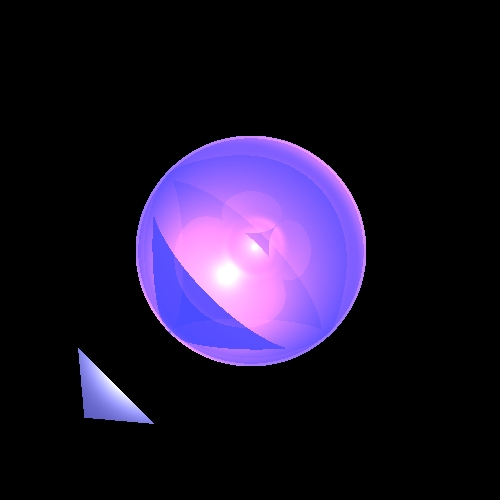
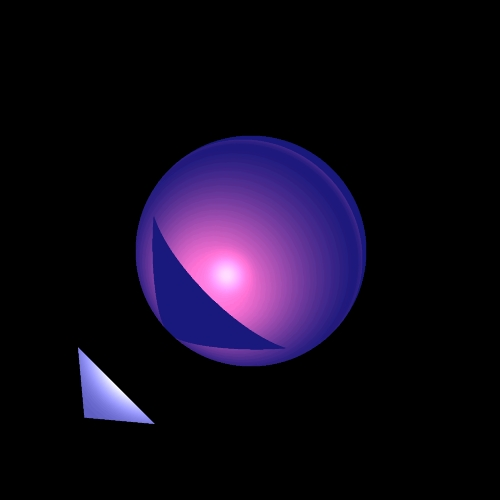
final!!!

Changed region(s): [[0.27, 0.27, 0.75, 0.75]]

diff --git a/src/unitTests/VectorTests.java b/src/unitTests/VectorTests.java
@@ -11,84 +11,58 @@ import static junit.framework.TestCase.fail;
 
 public class VectorTests {
     @Test
-    void add() {
+    public void add() {
         Vector v1=new Vector(new Point3D(1.0,2.0,4));
         Vector v2=new Vector(new Point3D(0.0,3,2.0));
         Vector v3=new Vector(v1.add(v2));
         assertEquals("Vector{head=Point3D{x=1.0, y=5.0, z=6.0}}",v3.toString());
             v2=new Vector();
-            try
-            {
-                v2.add(v2);
-                fail("its a zero vector");
-            }
-            catch (Exception ex)
-            {
-            assertTrue(true);
-        }
-
     }
 
     @Test
-    void sub(){
+    public void sub(){
 
         Vector v1=new Vector(new Point3D(1.0,2.0,4));
         Vector v2=new Vector(new Point3D(0.0,3,2.0));
         assertEquals("Vector{head=Point3D{x=1.0, y=-1.0, z=2.0}}",v1.sub(v2).toString());
         v2=new Vector();
-        /*try
-        {
-            v2.sub(v2);
-            fail("its a zero vector");
-        }
-        catch (Exception ex)
-        {
-            assertTrue(true);
-        }*/
+
     }
 
     @Test
-    void mult() {
+    public void mult() {
         Vector v1=new Vector(new Point3D(1.0,2.0,4));
         v1.mult(5);
         assertEquals("Vector{head=Point3D{x=5.0, y=10.0, z=20.0}}",v1.toString());
-        /*try
-        {
-            v1.mult(0);
-            fail("its a zero vector");
-        }
-        catch (Exception ex)
-        {
-            assertTrue(true);
-        }*/
+
     }
 
     @Test
-    void dotProduct() {
+    public void dotProduct() {
         Vector v1=new Vector(new Point3D(1.0,0.0,0.0));
         Vector v2=new Vector(new Point3D(0.0,1.0,0.0) );
         double result=v1.dotProduct(v2);
-        assertEquals(0,result);
+        assertEquals(0.0,result);
         v1=new Vector(new Point3D(1.0,2.0,4.0));
         v2=new Vector(new Point3D(2.0,4.0,8.0));
         result=v1.dotProduct(v2);
-        assertEquals(42,result);
+        assertEquals(42.0,result);
         v1=new Vector(new Point3D(2.0,2.0,3.0));
         v2=new Vector(new Point3D(1.0,2.0,3.0));
         result=v1.dotProduct(v2);
-        assertEquals(15,result);
+        assertEquals(15.0,result);
         v1=new Vector(new Point3D(1.0,2.0,3.0));
         v2=new Vector(new Point3D(-1.0,-2.0,-3.0));
         result=v1.dotProduct(v2);
-        assertEquals(-14,result);
+        assertEquals(-14.0,result);
         v1=new Vector(new Point3D(2.0,2.0,3.0));
         v2=new Vector(new Point3D(-1.0,1.0,-3.0));
         result=v1.dotProduct(v2);
-        assertEquals(-9,result);
+        assertEquals(-9.0,result);
     }
 
     @Test
-    void crossProduct() {
+    public void crossProduct() {
         Vector v1=new Vector(new Point3D(1.0,0.0,0.0));
         Vector v2=new Vector(new Point3D(0.0,1.0,0.0) );
         Vector v3=v1.crossProduct(v2);
@@ -96,24 +70,10 @@ public class VectorTests {
         assertEquals("Vector{head=Point3D{x=0.0, y=0.0, z=1.0}}",v3.toString());
         v1=new Vector(new Point3D(1.0,2.0,4.0));
         v2=new Vector(new Point3D(2.0,4.0,8.0));
-        /*try {
-            v3 = v1.crossProduct(v2);
-            fail("its a zero vector!!");
-        }
-        catch (Exception ex)
-        {
-            assertTrue(true);
-        }*/
+
         v1=new Vector(new Point3D(1.0,2.0,3.0));
         v2=new Vector(new Point3D(-1.0,-2.0,-3.0));
-        /*try {
-            v3 = v1.crossProduct(v2);
-            fail("its a zero vector!!");
-        }
-        catch (Exception ex)
-        {
-            assertTrue(true);
-        }*/
+
         v1=new Vector(new Point3D(2.0,2.0,3.0));
         v2=new Vector(new Point3D(-1.0,2.0,-3.0));
         v3=v1.crossProduct(v2);
@@ -125,25 +85,19 @@ public class VectorTests {
     }
 
     @Test
-    void length() {
+    public void length() {
         Vector v1=new Vector(new Point3D(1.0,0.0,0.0));
-        assertEquals(1,v1.size());
+        assertEquals(1.0,v1.size());
         Vector v2=new Vector(new Point3D(1,2,3));
         assertEquals(Math.sqrt(14),v2.size());
     }
 
     @Test
-    void testNormalize() {
+    public void testNormalize() {
         Vector v = new Vector(new Point3D(.5, -5, 10));
         v.normalize();
         assertEquals(1, v.size(), 1e-10);
         v = new Vector();
-        /*try {
-            v.normalize();
-            fail("Didn't throw divide by zero exception!");
-        } catch (ArithmeticException e) {
-            assertTrue(true);
-        }*/
     }
 }
 

diff --git a/src/unitTests/ShadowTests.java b/src/unitTests/ShadowTests.java
@@ -28,7 +28,7 @@ public class ShadowTests {
         scene.setCameraAndDistance(new Camera(), 200);
 
         Sphere sphere = new Sphere(500, new Point3D(0.0, 0.0, -1000));
-        sphere.setMaterial(new Material(1, 1, 1, 1, 20));
+        sphere.setMaterial(new Material(1, 1, 0, 0, 20));
         sphere.setEmission(new Color(0, 0, 100));
         scene.addGeometry(sphere);
 
@@ -49,7 +49,7 @@ public class ShadowTests {
         ImageWriter imageWriter = new ImageWriter("Spot test with shadow", 500, 500, 500, 500);
 
         Render render = new Render(imageWriter, scene);
-        render.renderImage();
+        render.renderImage(true);
     }
 
     @Test
@@ -60,7 +60,7 @@ public class ShadowTests {
         scene.setCameraAndDistance(new Camera(), 200);
 
         Sphere sphere = new Sphere(500, new Point3D(0.0, 0.0, -1000));
-        sphere.setMaterial(new Material(1, 1, 1, 1, 20));
+        sphere.setMaterial(new Material(1, 1, 0, 0, 20));
         sphere.setEmission(new Color(0, 0, 100));
         scene.addGeometry(sphere);
 
@@ -81,7 +81,7 @@ public class ShadowTests {
         ImageWriter imageWriter = new ImageWriter("Spot test with shadow2", 500, 500, 500, 500);
 
         Render render = new Render(imageWriter, scene);
-        render.renderImage();
+        render.renderImage(true);
     }
 
     @Test
@@ -92,7 +92,7 @@ public class ShadowTests {
         scene.setCameraAndDistance(new Camera(), 200);
 
         Sphere sphere = new Sphere(500, new Point3D(0.0, 0.0, -1000));
-        sphere.setMaterial(new Material(1, 1, 1, 1, 20));
+        sphere.setMaterial(new Material(1, 1, 0, 0, 20));
         sphere.setEmission(new Color(0, 0, 100));
         scene.addGeometry(sphere);
 
@@ -113,6 +113,6 @@ public class ShadowTests {
         ImageWriter imageWriter = new ImageWriter("Point test with shadow", 500, 500, 500, 500);
 
         Render render = new Render(imageWriter, scene);
-        render.renderImage();
+        render.renderImage(true);
     }
 }

diff --git a/src/unitTests/PlaneTest.java b/src/unitTests/PlaneTest.java
@@ -15,25 +15,25 @@ import static junit.framework.TestCase.assertEquals;
 public class PlaneTest {
     Plane plane=new Plane(new Point3D(1,0,0),new Point3D(1,1,1),new Point3D(1,1,0));
     @Test
-    void getNormal() {
+    public void getNormal() {
         Vector vector = plane.getNormal(new Point3D(10, 0, 0));
         assertEquals("Vector{head=Point3D{x=-1.0, y=0.0, z=0.0}}", vector.toString());
     }
 
     @Test
-    void func1() {
+    public void func1() {
         Plane p=new Plane(new Point3D(100, 0,0),new Vector(-1,0,0));
         Vector v=new Vector(1,2,0);
         Point3D point3D=new Point3D(0,0,0);
         Point3D point=p.findIntersections(new Ray(v,point3D)).get(0).point;
         System.out.println(point);
-        assertEquals(100, point.getCoordinate_x().get());
-        assertEquals(200, point.getCoordinate_y().get());
+        assertEquals(100.0, point.getCoordinate_x().get());
+        assertEquals(200.0, point.getCoordinate_y().get());
 
     }
 
     @Test
-    void func2() {
+    public void func2() {
         Plane p=new Plane(new Point3D(30, 0,0),new Point3D(5,1,1),new Point3D(20,1,0));
         Vector v=new Vector(1,2,0);
         Point3D point3D=new Point3D(0,0,0);
@@ -45,7 +45,7 @@ public class PlaneTest {
     }
 
     @Test
-    void func3() {
+    public void func3() {
         Plane p=new Plane(new Point3D(30, 0,0),new Point3D(5,1,1),new Point3D(100,1,0));
         Vector v=new Vector(1,2,0);
         Point3D point3D=new Point3D(0,0,0);

diff --git a/src/geometries/Plane.java b/src/geometries/Plane.java
@@ -1,11 +1,14 @@
 //Bs"d
 package geometries;
 
+import primitives.Material;
 import primitives.Point3D;
 import primitives.Ray;
 import primitives.Vector;
 
+import java.awt.*;
 import java.util.*;
+import java.util.List;
 
 public class Plane extends Geometry implements FlatGeometry {
     private Point3D point;
@@ -21,6 +24,8 @@ public class Plane extends Geometry implements FlatGeometry {
     public Plane(Point3D point, Vector plumb) {
         this.point = point;
         this.plumb = plumb;
+        emission=new Color(0,0,0);
+        material=new Material();
     }                      // Constructor that initializing the plane by point and the plumb vector
 
     /**

diff --git a/src/unitTests/RenderTest.java b/src/unitTests/RenderTest.java
@@ -53,7 +53,7 @@ public class RenderTest {
         scene.setAmbient(new AmbientLight(new Color(26, 65, 10),1));
         scene.setCameraAndDistance(new Camera(),100);
         Render r=new Render(im,scene);
-        r.renderImage();
+        r.renderImage(true);
     }
 
     @Test
@@ -83,7 +83,7 @@ public class RenderTest {
         ImageWriter imageWriter = new ImageWriter("Spot test with shadow5", 500, 500, 500, 500);
 
         Render render = new Render(imageWriter, scene);
-        render.renderImage();
+        render.renderImage(true);
     }
 
 

diff --git a/src/geometries/Sphere.java b/src/geometries/Sphere.java
@@ -2,10 +2,12 @@
 
 package geometries;
 
+import primitives.Material;
 import primitives.Point3D;
 import primitives.Ray;
 import primitives.Vector;
 
+import java.awt.*;
 import java.util.ArrayList;
 import java.util.List;
 
@@ -24,6 +26,8 @@ public class Sphere extends RadialGeometry{
     public Sphere(double radius, Point3D point) {
         super(radius);
         this.center = point;
+        emission=new Color(0,0,0);
+        material=new Material();
     }                                    //constructor that gets radius and the center
 
 

diff --git a/src/geometries/Triangle.java b/src/geometries/Triangle.java
@@ -2,10 +2,12 @@
 
 package geometries;
 
+import primitives.Material;
 import primitives.Point3D;
 import primitives.Ray;
 import primitives.Vector;
 
+import java.awt.*;
 import java.util.ArrayList;
 import java.util.List;
 
@@ -27,6 +29,8 @@ public class Triangle extends Plane implements FlatGeometry{
         this.point1 = point1;
         this.point2 = point2;
         this.point3 = point3;
+        emission=new Color(0,0,0);
+        material=new Material();
     }              //constructor by 3 points
 
 

diff --git a/src/renderer/Render.java b/src/renderer/Render.java
@@ -43,8 +43,12 @@ public class Render {
     /**
      *defines if render image without super sumpling or with
      */
-    public void renderImage(){
-        renderImageWithoutSuperSumpling();
+    public void renderImage(boolean superSumpling)
+    {
+        if (superSumpling)
+            renderImageWithSuperSumpling();
+        else
+            renderImageWithoutSuperSumpling();
     }
 
     /**

diff --git a/src/unitTests/RecursiveTests.java b/src/unitTests/RecursiveTests.java
@@ -41,7 +41,7 @@ public class RecursiveTests {
 
         Render render = new Render(imageWriter, scene);
 
-        render.renderImage();
+        render.renderImage(true);
     }
 
     @Test
@@ -82,7 +82,7 @@ public class RecursiveTests {
 
         Render render = new Render(imageWriter, scene);
 
-        render.renderImage();
+        render.renderImage(true);
     }
 
 }

diff --git a/src/unitTests/ShmuelTest.java b/src/unitTests/ShmuelTest.java
@@ -34,7 +34,7 @@ public class ShmuelTest {
 
         ImageWriter i=new ImageWriter("kjsh",500,500,500,500);
         Render r=new Render(i,scene);
-        r.renderImage();
+        r.renderImage(true);
 
     }
 }

diff --git a/src/unitTests/OurTest.java b/src/unitTests/OurTest.java
@@ -73,6 +73,6 @@ public class OurTest {
 
         Render render = new Render(imageWriter, scene);
 
-        render.renderImage();
+        render.renderImage(true);
     }
 }
